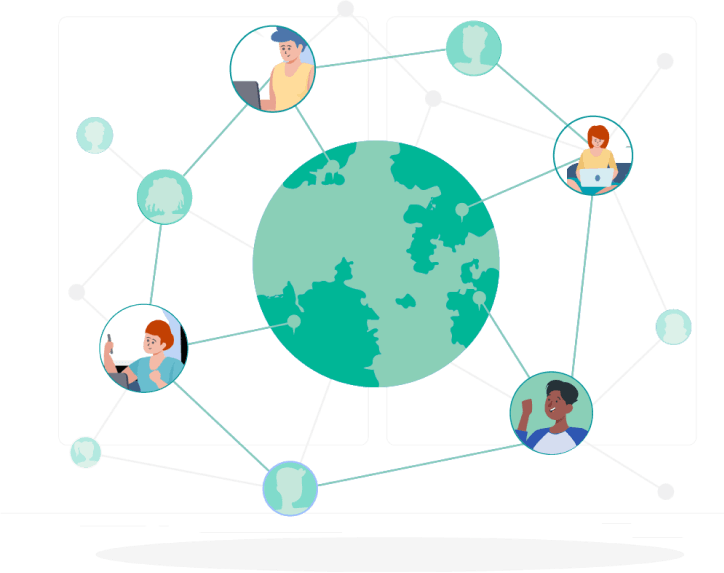
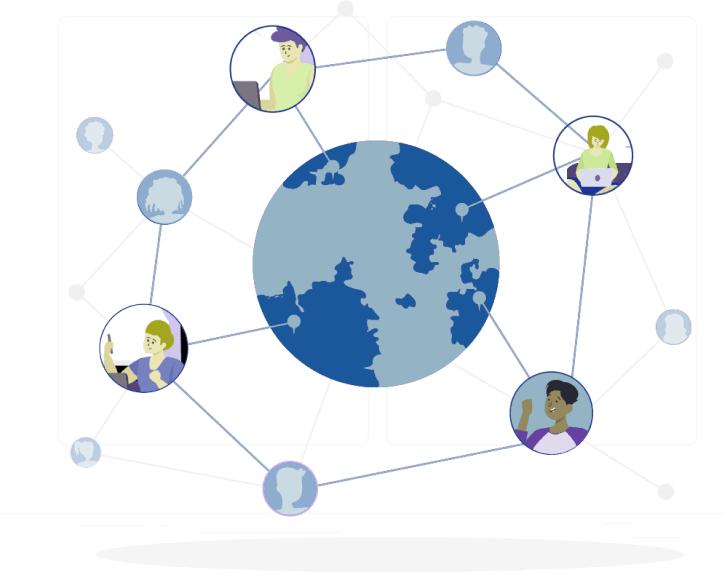
WEBSITE-97 Update images and colors

diff --git a/src/components/OYW/Testimonials.jsx b/src/components/OYW/Testimonials.jsx
@@ -10,7 +10,7 @@ const Slide = ({ images, testimonial, active }) => {
   const intl = useIntl();
   return (
     <div style={{ display: `${active ? "block" : "none"}` }} className={`fade`}>
-      <div className="rectangle-testimonial">
+      <div className="rectangle-testimonial bg-blue-100">
         <GatsbyImage
           className="absolute md:flex hidden top-4 md:top-10 left-0 w-4 md:w-10 h-4 md:h-10 pt-9 ml-9"
           imgStyle={{ objectFit: "fill" }}
@@ -83,10 +83,10 @@ export default ({ images }) => {
             active={currentSlide === idx + 1}
           />
         ))}
-        <a className="prev" onClick={() => updateCurrentSlide(-1)}>
+        <a className="prev text-blue" onClick={() => updateCurrentSlide(-1)}>
           &#10094;
         </a>
-        <a className="next" onClick={() => updateCurrentSlide(1)}>
+        <a className="next text-blue" onClick={() => updateCurrentSlide(1)}>
           &#10095;
         </a>
       </div>

diff --git a/src/components/OYW/styles/Testimonials.css b/src/components/OYW/styles/Testimonials.css
@@ -28,7 +28,6 @@
   height: 450px;
   margin-left: auto;
   margin-right: auto;
-  background: #f0f9f6;
   border-radius: 5px;
   padding-top: 0.6rem;
 }
@@ -103,7 +102,6 @@
   margin-left: -5%;
   margin-right: -5%;
   padding: 16px;
-  color: #00a58a;
   font-weight: bold;
   font-size: 30px;
   transition: 0.6s ease;
